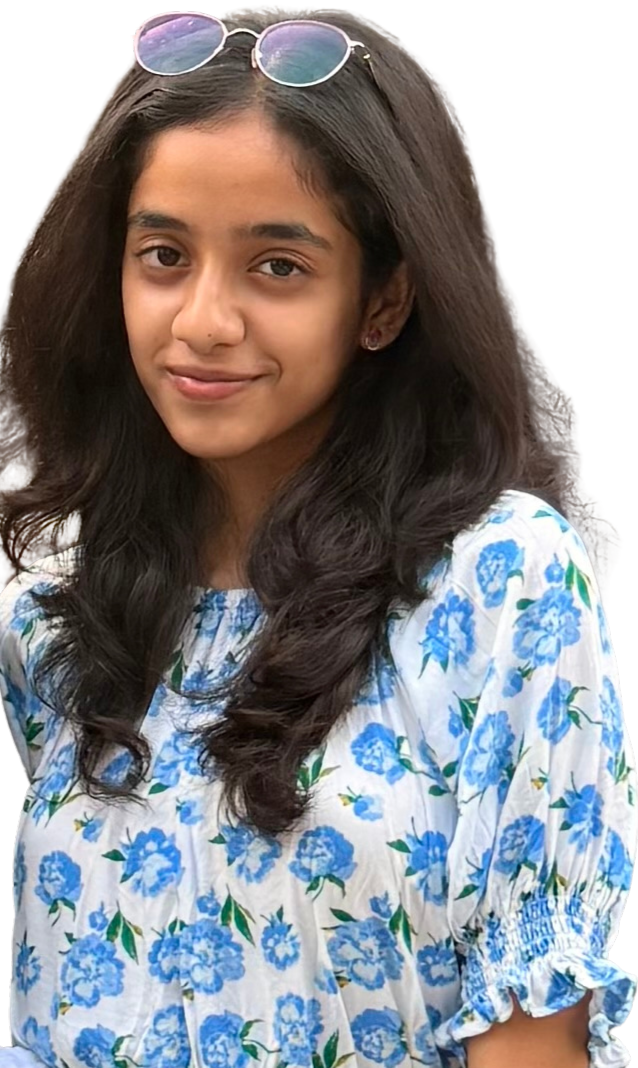
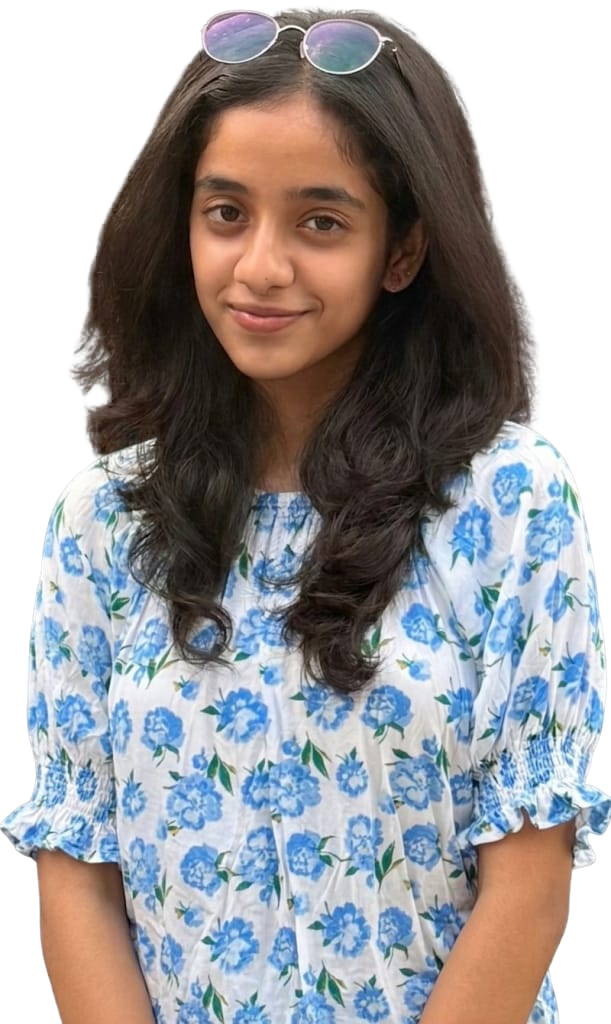
fix: update backend URLs to use localhost for development

diff --git a/src/app/components/contributors.js b/src/app/components/contributors.js
@@ -153,7 +153,7 @@ function ContributorRow({
 
         if (cWidth > 0) {
           const setW = N * cWidth + N * GAP;
-          setDuration(setW / 100);
+          setDuration(setW / 75);
         }
       }
     });
@@ -322,7 +322,7 @@ export default function Contributors() {
   const people = [
     { name: "Varun B", domain: "Tech Lead", image: "/contributors/Varun .png", instagram: "https://www.instagram.com/varun4.b", linkedin: "https://www.linkedin.com/in/varunb45/", github: "https://github.com/varun4505" },
     { name: "Aditya Madan", domain: "Design Lead", image: "/contributors/Aditya Madan.png", instagram: "https://www.instagram.com/your.avg.engineer", linkedin: "https://www.linkedin.com/in/aditya-madan-90b49526b", github: "https://github.com/aditya10801" },
-    { name: "Atiksh Chawla", domain: "Tech Head", image: "/contributors/Atiksh Chawla.png", instagram: "https://www.instagram.com/atiksh_chawla/", linkedin: "https://www.linkedin.com/in/atikshchawla/", github: "https://github.com/atikshchawla/" },
+    { name: "Atiksh Chawla", domain: "Tech Lead", image: "/contributors/Atiksh Chawla.png", instagram: "https://www.instagram.com/atiksh_chawla/", linkedin: "https://www.linkedin.com/in/atikshchawla/", github: "https://github.com/atikshchawla/" },
     { name: "Ayush", domain: "Advisor", image: "/contributors/Ayush Kumar.png", instagram: "https://www.instagram.com/_ayush.0808", linkedin: "https://www.linkedin.com/in/ayushk0808/", github: "https://github.com/AyushK0808" },
     { name: "Lavan", domain: "Projects Head", image: "/contributors/Lavanbarath B .png", instagram: "https://www.instagram.com/lavan8t", linkedin: "https://www.linkedin.com/in/lavan8t/", github: "https://github.com/lavan8t/" },
     { name: "Lakshya Gupta", domain: "Senior Core", image: "/contributors/Lakshya Gupta.png", instagram: "https://www.instagram.com/2005_lakshya", linkedin: "https://www.linkedin.com/in/lakshya-gupta2005/", github: "https://github.com/2005lakshya" },
@@ -349,16 +349,16 @@ export default function Contributors() {
 
       {/* DESKTOP VIEW */}
       <div className="hidden md:flex w-full flex-col">
-        <ContributorRow word="Built" left={[people[0], people[2]]} right={[people[5], people[6]]} direction="ltr" />
-        <ContributorRow word="by" left={[people[1], people[3]]} right={[people[4], people[7]]} direction="rtl" />
+        <ContributorRow word="Built" left={[people[0], people[1]]} right={[people[5], people[2]]} direction="ltr" />
+        <ContributorRow word="by" left={[people[6], people[3]]} right={[people[4], people[7]]} direction="rtl" />
         <ContributorRow word="the" left={[people[8], people[9], people[10]]} right={[people[11], people[12]]} direction="ltr" />
         <ContributorRow word="ambitious" left={[people[13], people[14]]} right={[people[15], people[16]]} direction="rtl" />
       </div>
 
       {/* MOBILE VIEW */}
       <div className="md:hidden flex flex-col w-full gap-1.5">
-        <MobileContributorRow cards={[people[0], people[2], people[5], people[6]]} direction="ltr" rowIndex={1} />
-        <MobileContributorRow cards={[people[1], people[3], people[4], people[7]]} direction="rtl" rowIndex={2} />
+        <MobileContributorRow cards={[people[0], people[1], people[5], people[2]]} direction="ltr" rowIndex={1} />
+        <MobileContributorRow cards={[people[6], people[3], people[4], people[7]]} direction="rtl" rowIndex={2} />
         <MobileContributorRow cards={[people[8], people[9], people[10], people[11], people[12]]} direction="ltr" rowIndex={3} />
         <MobileContributorRow cards={[people[13], people[14], people[15], people[16]]} direction="rtl" rowIndex={4} />
       </div>

diff --git a/src/app/api/auth/callback/google/route.js b/src/app/api/auth/callback/google/route.js
@@ -3,12 +3,12 @@ export const runtime = "edge";
 import { NextResponse } from "next/server";
 import { isQuizCompleted } from "../../../../utils/quizStatus";
 
-const BACKEND_BASE_URL = process.env.BACKEND_API_URL || process.env.NEXT_PUBLIC_BACKEND_API_URL;
+const BACKEND_BASE_URL = process.env.BACKEND_API_URL || process.env.NEXT_PUBLIC_BACKEND_API_URL || "http://localhost:8000";
 console.log('BACKEND_API_URL:', process.env.BACKEND_API_URL);
 console.log('NEXT_PUBLIC_BACKEND_API_URL:', process.env.NEXT_PUBLIC_BACKEND_API_URL);
-if (!BACKEND_BASE_URL) {
-    throw new Error("BACKEND_API_URL is not defined");
-}
+// if (!BACKEND_BASE_URL) {
+//     throw new Error("BACKEND_API_URL is not defined");
+// }
 const BASE_URL = BACKEND_BASE_URL.replace(/\/$/, "");
 
 function redirectToSignin(request, errorMessage) {

diff --git a/src/app/api/login/route.js b/src/app/api/login/route.js
@@ -3,10 +3,10 @@
 export const runtime = 'edge';
 import { NextResponse } from "next/server";
 
-const BACKEND_BASE_URL = process.env.BACKEND_API_URL || process.env.NEXT_PUBLIC_BACKEND_API_URL;
-if (!BACKEND_BASE_URL) {
-  throw new Error("BACKEND_API_URL is not defined");
-}
+const BACKEND_BASE_URL = process.env.BACKEND_API_URL || process.env.NEXT_PUBLIC_BACKEND_API_URL || "http://localhost:8000";
+// if (!BACKEND_BASE_URL) {
+//   throw new Error("BACKEND_API_URL is not defined");
+// }
 const BASE_URL = BACKEND_BASE_URL.replace(/\/$/, "");
 
 function enforceSelectAccountPrompt(authorizationUrl) {

diff --git a/src/app/api/backend/[...path]/route.js b/src/app/api/backend/[...path]/route.js
@@ -6,7 +6,8 @@ const NETWORK_ERROR_MESSAGE =
 export const runtime = 'edge';
 const BACKEND_BASE_URL = (
     process.env.BACKEND_API_URL ||
-    process.env.NEXT_PUBLIC_BACKEND_API_URL
+    process.env.NEXT_PUBLIC_BACKEND_API_URL ||
+    "http://localhost:8000"
 ).replace(/\/$/, "");
 
 function buildTargetUrl(pathSegments, requestUrl) {

diff --git a/src/app/api/auth/session/route.js b/src/app/api/auth/session/route.js
@@ -7,7 +7,7 @@ export const runtime = "edge";
 const BACKEND_BASE_URL = (
     process.env.BACKEND_API_URL ||
     process.env.NEXT_PUBLIC_BACKEND_API_URL ||
-    "https://bunkbuddies-backend-ic43.onrender.com"
+    "http://localhost:8000"
 ).replace(/\/$/, "");
 
 function routeFromStateWithQuiz({ hasProfile, hasGroup, hasQuiz }) {

diff --git a/src/app/chat/page.js b/src/app/chat/page.js
@@ -13,7 +13,7 @@ const syne = Syne({
   weight: ["400", "600", "700"],
 });
 
-const WS_BASE = process.env.NEXT_PUBLIC_WS_URL;
+const WS_BASE = process.env.NEXT_PUBLIC_WS_URL || "ws://localhost:8000";
 
 export default function ChatPage() {
   const router = useRouter();
